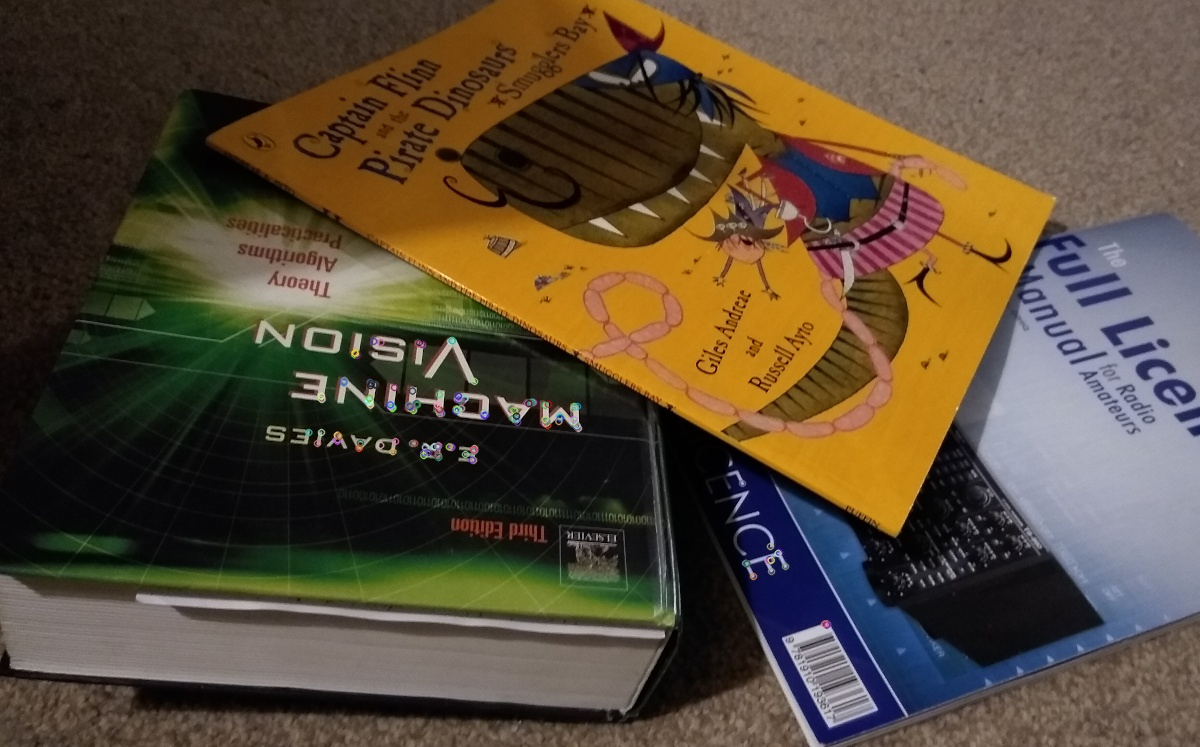
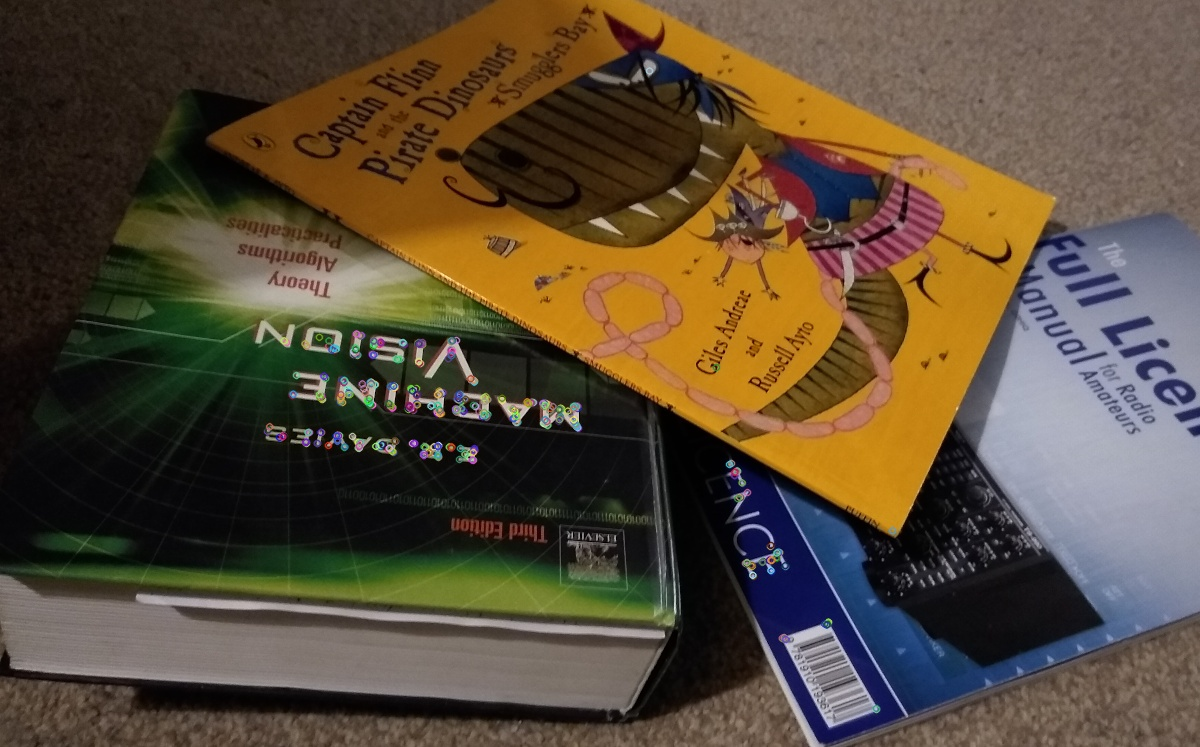
testing the out the feature extraction functions - s16

diff --git a/Lab_3_Week_5/snippet_16/snippet_16.py b/Lab_3_Week_5/snippet_16/snippet_16.py
@@ -20,7 +20,7 @@ import numpy as np
 def findFeatures(img):
 
     # Initiate feature detector: ORB
-    fd = cv2.ORB_create(nfeatures=200) # Limit number of features found to 200
+    fd = cv2.ORB_create(nfeatures=500) # Limit number of features found to 200
 
     # find the keypoints and descriptors with ORB
     kps, descs = fd.detectAndCompute(img, None)
